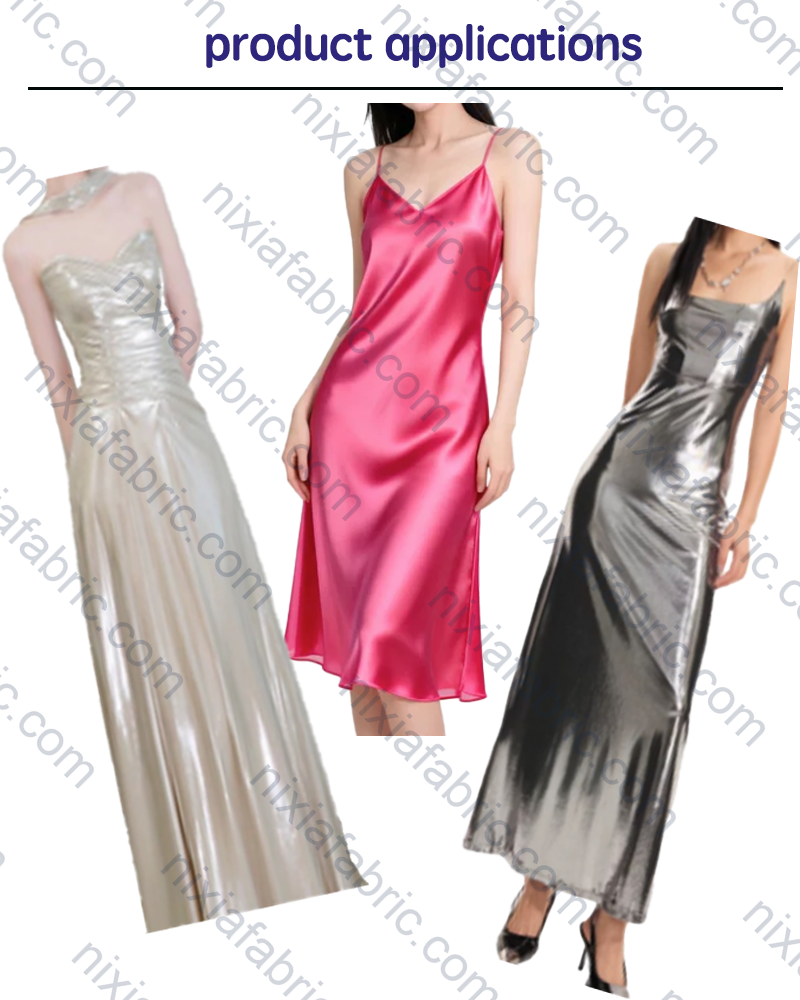
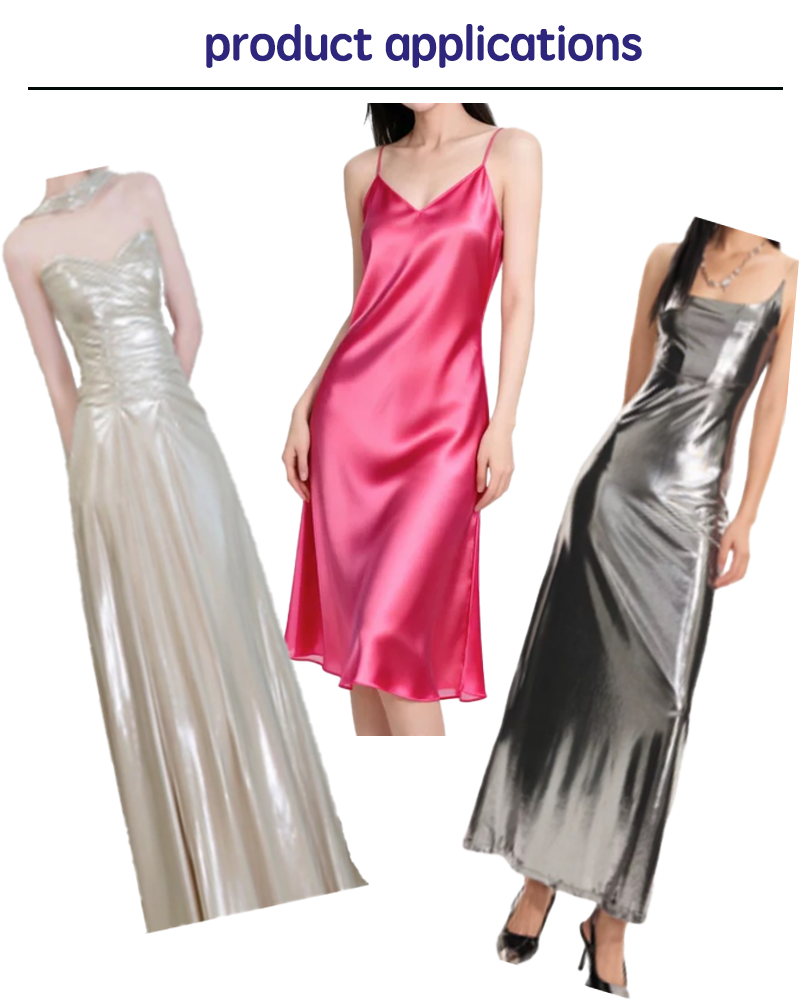
update

diff --git a/docs/agent/requirements/current/content-data.md b/docs/agent/requirements/current/content-data.md
@@ -35,10 +35,10 @@ status: current
 
 ### REQ-DATA-004：指定产品展示图使用品牌水印
 - 状态：active
-- 当前规则：`iridescent-laser-hot-stamping-stretch-ice-silk` 和 `shiny-foil-4-way-stretch-knit-fabric` 的主图 1 不使用水印；`shiny-foil-4-way-stretch-knit-fabric` 只在 WebP 展示版本添加域名水印，PNG 原图保持无水印，除 `main/a1.webp` 外的其他主图、Application 图片和 Product Details 图片每张只放 3 个低透明度、逆时针 45 度倾斜域名水印 `nixiafabric.com`。
-- 验收条件：指定产品主图 1 保持无水印；`shiny-foil-4-way-stretch-knit-fabric` 的 PNG 原图不加水印，除 `main/a1.webp` 外的同名 WebP 每张包含且只包含 3 个低透明度、逆时针 45 度倾斜域名水印；图片尺寸和展示路径不变，面料主体仍清晰可辨，且不使用 Logo 图标水印或固定水印背景框。
+- 当前规则：`iridescent-laser-hot-stamping-stretch-ice-silk` 和 `shiny-foil-4-way-stretch-knit-fabric` 的主图 1 不使用水印；`shiny-foil-4-way-stretch-knit-fabric` 的主图与 Product Details 图只在 WebP 展示版本添加域名水印，PNG 原图保持无水印，除 `main/a1.webp` 外每张只放 3 个低透明度、逆时针 45 度倾斜域名水印 `nixiafabric.com`；Application 图片的 PNG 与 WebP 均不加水印。
+- 验收条件：指定产品主图 1 保持无水印；主图与 Product Details 图的 PNG 原图不加水印，除 `main/a1.webp` 外的同名 WebP 每张包含且只包含 3 个低透明度、逆时针 45 度倾斜域名水印；Application 图片的 PNG 与 WebP 均保持无水印；图片尺寸和展示路径不变，面料主体仍清晰可辨，且不使用 Logo 图标水印或固定水印背景框。
 - 影响模块：`content-data`、`product-catalog`
 - 代码路径：`public/images/products/iridescent-laser-hot-stamping-stretch-ice-silk/`、`public/images/products/H2013060105/`
 - 测试路径：`npm run validate:products`、`npm run build`、人工抽查图片
-- 最后变更编号：CHG-20260915-001-h2013060105-shiny-foil-product
+- 最后变更编号：CHG-20260915-002-h2013060105-application-webp
 - 待确认事项：无

diff --git a/docs/agent/requirements/INDEX.md b/docs/agent/requirements/INDEX.md
@@ -3,7 +3,7 @@
 | 业务模块 | 当前需求文档 | 需求编号 | 最近变更 | 相关代码 |
 |---|---|---|---|---|
 | 站点壳 / SEO | `current/site-shell.md` | `REQ-SHELL-001~009` | CHG-20260915-001-h2013060105-shiny-foil-product | `src/layouts/Layout.astro`、`src/components/Header.astro`、`src/components/Footer.astro`、`src/components/HeroCarousel.astro`、`src/pages/index.astro` |
-| 内容数据 | `current/content-data.md` | `REQ-DATA-001~004` | CHG-20260915-001-h2013060105-shiny-foil-product | `src/data/allProducts.js`、`src/data/blogArticles.js`、`src/data/products.json`、`public/images/**` |
+| 内容数据 | `current/content-data.md` | `REQ-DATA-001~004` | CHG-20260915-002-h2013060105-application-webp | `src/data/allProducts.js`、`src/data/blogArticles.js`、`src/data/products.json`、`public/images/**` |
 | 产品目录 | `current/product-catalog.md` | `REQ-PRODUCT-001~017` | CHG-20260915-001-h2013060105-shiny-foil-product | `src/pages/products.astro`、`src/pages/products/[slug].astro`、`src/components/ProductDetail.astro`、`src/components/ProductSchema.astro` |
 | 博客知识中心 | `current/blog.md` | `REQ-BLOG-001~005` | CHG-20260913-002-hot-stamping-spandex-blog-guide | `src/pages/blog/index.astro`、`src/pages/blog/[slug].astro`、`src/data/blogArticles.js` |
 | 联系 / RFQ 表单 | `current/inquiry-forms.md` | `REQ-FORM-001~003` | 待确认 | `src/components/ContactForm.astro`、`src/components/RfqQuoteForm.astro`、`src/components/RFQQuoteModal.astro` |

diff --git a/docs/agent/requirements/changes/2026-09-15-CHG-20260915-002-h2013060105-application-webp.md b/docs/agent/requirements/changes/2026-09-15-CHG-20260915-002-h2013060105-application-webp.md
@@ -1,0 +1,38 @@
+---
+change_id: CHG-20260915-002-h2013060105-application-webp
+date: 2026-09-15
+status: implemented
+requirements:
+  - REQ-DATA-004
+modules:
+  - content-data
+  - product-catalog
+---
+
+# H2013060105 Application 图片 WebP 更新
+
+## 变更原因
+H2013060105 的 Application 图片已替换为新的 PNG 原图，需要重新生成对应的 WebP；Application 图片不使用水印。
+
+## 变更前
+Application 图片的 WebP 不存在或可能沿用旧的带水印版本。
+
+## 变更后
+从 `public/images/products/H2013060105/application/x12.png` 重新生成无水印的 `x12.webp`，保持 PNG 与 WebP 的尺寸和展示路径一致。当前水印规则明确排除 Application 图片；域名水印仅适用于该产品的主图与 Product Details 图 WebP。
+
+## 验收条件
+- `application/x12.png` 与 `application/x12.webp` 均存在。
+- 两个文件尺寸均为 800×1000。
+- Application PNG 与 WebP 均不包含域名水印。
+- 产品详情页继续正常引用 Application 图片。
+
+## 实现位置
+`public/images/products/H2013060105/application/x12.png`
+`public/images/products/H2013060105/application/x12.webp`
+`docs/agent/requirements/current/content-data.md`
+
+## 验证结果
+已从新 PNG 重新生成 WebP；`npm run validate:products` 通过，Application 图片路径和构建页面引用均正常。
+
+## 来源
+用户 2026-09-15 需求。
